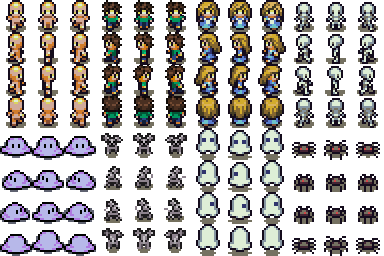
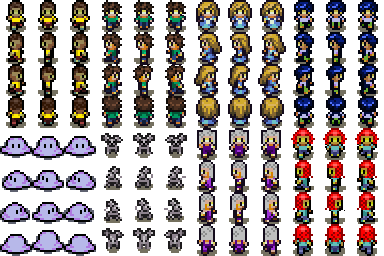
creating an army of npcs

diff --git a/pixi/js/spritemap.js b/pixi/js/spritemap.js
@@ -1,100 +1,100 @@
 /*
-0: {"naked-moving-forward" => "characters-0.png"}
-1: {"naked-still-forward" => "characters-1.png"}
-2: {"naked-moving-alt-forward" => "characters-2.png"}
+0: {"steve-moving-forward" => "characters-0.png"}
+1: {"steve-still-forward" => "characters-1.png"}
+2: {"steve-moving-alt-forward" => "characters-2.png"}
 3: {"handsome-moving-forward" => "characters-3.png"}
 4: {"handsome-still-forward" => "characters-4.png"}
 5: {"handsome-moving-alt-forward" => "characters-5.png"}
 6: {"blonde-moving-forward" => "characters-6.png"}
 7: {"blonde-still-forward" => "characters-7.png"}
 8: {"blonde-moving-alt-forward" => "characters-8.png"}
-9: {"skelly-moving-forward" => "characters-9.png"}
-10: {"skelly-still-forward" => "characters-10.png"}
-11: {"skelly-moving-alt-forward" => "characters-11.png"}
-12: {"naked-moving-left" => "characters-12.png"}
-13: {"naked-still-left" => "characters-13.png"}
-14: {"naked-moving-alt-left" => "characters-14.png"}
+9: {"sam-moving-forward" => "characters-9.png"}
+10: {"sam-still-forward" => "characters-10.png"}
+11: {"sam-moving-alt-forward" => "characters-11.png"}
+12: {"steve-moving-left" => "characters-12.png"}
+13: {"steve-still-left" => "characters-13.png"}
+14: {"steve-moving-alt-left" => "characters-14.png"}
 15: {"handsome-moving-left" => "characters-15.png"}
 16: {"handsome-still-left" => "characters-16.png"}
 17: {"handsome-moving-alt-left" => "characters-17.png"}
 18: {"blonde-moving-left" => "characters-18.png"}
 19: {"blonde-still-left" => "characters-19.png"}
 20: {"blonde-moving-alt-left" => "characters-20.png"}
-21: {"skelly-moving-left" => "characters-21.png"}
-22: {"skelly-still-left" => "characters-22.png"}
-23: {"skelly-moving-alt-left" => "characters-23.png"}
-24: {"naked-moving-right" => "characters-24.png"}
-25: {"naked-still-right" => "characters-25.png"}
-26: {"naked-moving-alt-right" => "characters-26.png"}
+21: {"sam-moving-left" => "characters-21.png"}
+22: {"sam-still-left" => "characters-22.png"}
+23: {"sam-moving-alt-left" => "characters-23.png"}
+24: {"steve-moving-right" => "characters-24.png"}
+25: {"steve-still-right" => "characters-25.png"}
+26: {"steve-moving-alt-right" => "characters-26.png"}
 27: {"handsome-moving-right" => "characters-27.png"}
 28: {"handsome-still-right" => "characters-28.png"}
 29: {"handsome-moving-alt-right" => "characters-29.png"}
 30: {"blonde-moving-right" => "characters-30.png"}
 31: {"blonde-still-right" => "characters-31.png"}
 32: {"blonde-moving-alt-right" => "characters-32.png"}
-33: {"skelly-moving-right" => "characters-33.png"}
-34: {"skelly-still-right" => "characters-34.png"}
-35: {"skelly-moving-alt-right" => "characters-35.png"}
-36: {"naked-moving-back" => "characters-36.png"}
-37: {"naked-still-back" => "characters-37.png"}
-38: {"naked-moving-alt-back" => "characters-38.png"}
+33: {"sam-moving-right" => "characters-33.png"}
+34: {"sam-still-right" => "characters-34.png"}
+35: {"sam-moving-alt-right" => "characters-35.png"}
+36: {"steve-moving-back" => "characters-36.png"}
+37: {"steve-still-back" => "characters-37.png"}
+38: {"steve-moving-alt-back" => "characters-38.png"}
 39: {"handsome-moving-back" => "characters-39.png"}
 40: {"handsome-still-back" => "characters-40.png"}
 41: {"handsome-moving-alt-back" => "characters-41.png"}
 42: {"blonde-moving-back" => "characters-42.png"}
 43: {"blonde-still-back" => "characters-43.png"}
 44: {"blonde-moving-alt-back" => "characters-44.png"}
-45: {"skelly-moving-back" => "characters-45.png"}
-46: {"skelly-still-back" => "characters-46.png"}
-47: {"skelly-moving-alt-back" => "characters-47.png"}
+45: {"sam-moving-back" => "characters-45.png"}
+46: {"sam-still-back" => "characters-46.png"}
+47: {"sam-moving-alt-back" => "characters-47.png"}
 48: {"slime-moving-forward" => "characters-48.png"}
 49: {"slime-still-forward" => "characters-49.png"}
 50: {"slime-moving-alt-forward" => "characters-50.png"}
 51: {"snoodle-moving-forward" => "characters-51.png"}
 52: {"snoodle-still-forward" => "characters-52.png"}
 53: {"snoodle-moving-alt-forward" => "characters-53.png"}
-54: {"boo-moving-forward" => "characters-54.png"}
-55: {"boo-still-forward" => "characters-55.png"}
-56: {"boo-moving-alt-forward" => "characters-56.png"}
-57: {"bitey-moving-forward" => "characters-57.png"}
-58: {"bitey-still-forward" => "characters-58.png"}
-59: {"bitey-moving-alt-forward" => "characters-59.png"}
+54: {"sara-moving-forward" => "characters-54.png"}
+55: {"sara-still-forward" => "characters-55.png"}
+56: {"sara-moving-alt-forward" => "characters-56.png"}
+57: {"nectarine-moving-forward" => "characters-57.png"}
+58: {"nectarine-still-forward" => "characters-58.png"}
+59: {"nectarine-moving-alt-forward" => "characters-59.png"}
 60: {"slime-moving-left" => "characters-60.png"}
 61: {"slime-still-left" => "characters-61.png"}
 62: {"slime-moving-alt-left" => "characters-62.png"}
 63: {"snoodle-moving-left" => "characters-63.png"}
 64: {"snoodle-still-left" => "characters-64.png"}
 65: {"snoodle-moving-alt-left" => "characters-65.png"}
-66: {"boo-moving-left" => "characters-66.png"}
-67: {"boo-still-left" => "characters-67.png"}
-68: {"boo-moving-alt-left" => "characters-68.png"}
-69: {"bitey-moving-left" => "characters-69.png"}
-70: {"bitey-still-left" => "characters-70.png"}
-71: {"bitey-moving-alt-left" => "characters-71.png"}
+66: {"sara-moving-left" => "characters-66.png"}
+67: {"sara-still-left" => "characters-67.png"}
+68: {"sara-moving-alt-left" => "characters-68.png"}
+69: {"nectarine-moving-left" => "characters-69.png"}
+70: {"nectarine-still-left" => "characters-70.png"}
+71: {"nectarine-moving-alt-left" => "characters-71.png"}
 72: {"slime-moving-right" => "characters-72.png"}
 73: {"slime-still-right" => "characters-73.png"}
 74: {"slime-moving-alt-right" => "characters-74.png"}
 75: {"snoodle-moving-right" => "characters-75.png"}
 76: {"snoodle-still-right" => "characters-76.png"}
 77: {"snoodle-moving-alt-right" => "characters-77.png"}
-78: {"boo-moving-right" => "characters-78.png"}
-79: {"boo-still-right" => "characters-79.png"}
-80: {"boo-moving-alt-right" => "characters-80.png"}
-81: {"bitey-moving-right" => "characters-81.png"}
-82: {"bitey-still-right" => "characters-82.png"}
-83: {"bitey-moving-alt-right" => "characters-83.png"}
+78: {"sara-moving-right" => "characters-78.png"}
+79: {"sara-still-right" => "characters-79.png"}
+80: {"sara-moving-alt-right" => "characters-80.png"}
+81: {"nectarine-moving-right" => "characters-81.png"}
+82: {"nectarine-still-right" => "characters-82.png"}
+83: {"nectarine-moving-alt-right" => "characters-83.png"}
 84: {"slime-moving-back" => "characters-84.png"}
 85: {"slime-still-back" => "characters-85.png"}
 86: {"slime-moving-alt-back" => "characters-86.png"}
 87: {"snoodle-moving-back" => "characters-87.png"}
 88: {"snoodle-still-back" => "characters-88.png"}
 89: {"snoodle-moving-alt-back" => "characters-89.png"}
-90: {"boo-moving-back" => "characters-90.png"}
-91: {"boo-still-back" => "characters-91.png"}
-92: {"boo-moving-alt-back" => "characters-92.png"}
-93: {"bitey-moving-back" => "characters-93.png"}
-94: {"bitey-still-back" => "characters-94.png"}
-95: {"bitey-moving-alt-back" => "characters-95.png"}
+90: {"sara-moving-back" => "characters-90.png"}
+91: {"sara-still-back" => "characters-91.png"}
+92: {"sara-moving-alt-back" => "characters-92.png"}
+93: {"nectarine-moving-back" => "characters-93.png"}
+94: {"nectarine-still-back" => "characters-94.png"}
+95: {"nectarine-moving-alt-back" => "characters-95.png"}
 */
 
 function nameSprites() {
@@ -124,13 +124,13 @@ function getSpriteName(xpos,ypos) {
 	if (ypos < 4) {
 		switch (xpos) {
 			case 0:
-				name = "naked";
+				name = "steve";
 				break;
 			case 1:
-				name = "naked";
+				name = "steve";
 				break;
 			case 2:
-				name = "naked";
+				name = "steve";
 				break;
 			case 3:
 				name = "handsome";
@@ -151,13 +151,13 @@ function getSpriteName(xpos,ypos) {
 				name = "blonde";
 				break;
 			case 9:
-				name = "skelly";
+				name = "sam";
 				break;
 			case 10:
-				name = "skelly";
+				name = "sam";
 				break;
 			case 11:
-				name = "skelly";
+				name = "sam";
 				break;
 		}
 	}
@@ -182,22 +182,22 @@ function getSpriteName(xpos,ypos) {
 				name = "snoodle";
 				break;
 			case 6:
-				name = "boo";
+				name = "sara";
 				break;
 			case 7:
-				name = "boo";
+				name = "sara";
 				break;
 			case 8:
-				name = "boo";
+				name = "sara";
 				break;
 			case 9:
-				name = "bitey";
+				name = "nectarine";
 				break;
 			case 10:
-				name = "bitey";
+				name = "nectarine";
 				break;
 			case 11:
-				name = "bitey";
+				name = "nectarine";
 				break;
 		}
 	}
